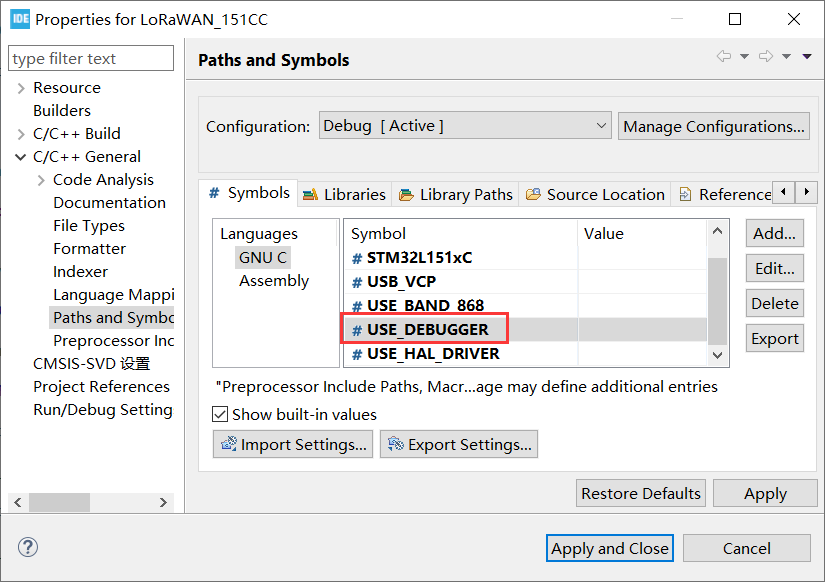
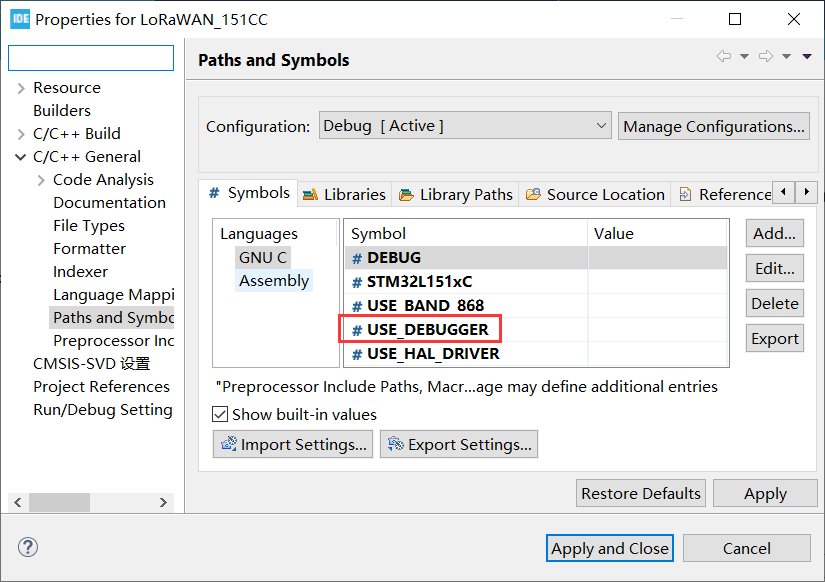
Update STM32 relevant documents

Changed region(s): [[0.3939, 0.3711, 0.8788, 0.6186], [0.2727, 0.4639, 0.3939, 0.5258], [0.0, 0.0928, 0.1515, 0.1237]]

diff --git a/en/source/stm32/turtle_board/download_firmware.md b/en/source/stm32/turtle_board/download_firmware.md
@@ -1,19 +1,56 @@
 # Download Firmware
 
-&nbsp;
-
 ## Via DFU Mode
+
+STM32L432KC had already included DFU Bootloader, it means just need a Micro USB cable, users can download .elf/.bin files into the board.
 
 - How to access DFU mode.
 
-  
+  - If the board is not connected to the computer —— press the "USER" button of the Lora node before inserting it into any USB port of the computer (press the “USER"  key all the time before inserting, and release it after connecting to the USB port).
+  - If the board had connected to the computer —— Keep the “USER” button pressed → Press the "RST" button → Release the "RST" button → Release the "USER" button.
 
 - Download firmware.
+
+  - If enter DFU mode successfully (with the driver is installed correctly), you can see the STM32 flash in `RadioShuttle STM32 Utility`. 
+
+    ![](img/download_firmware/05.png)
+  
+  - Drag the `.bin` file into the window.
+  
+  ![](img/download_firmware/04.png)
+  
+  ```Warning:: For Turtle Board, if you use &quot;STM32CubeProgrammer&quot; to download firmware, it may damage the bootloader of the Turtle Board, so we recommend using &quot;RadioShuttle STM32 Utility&quot;.
+  
+  ```
+  
+  ***The advantage of using the DFU mode is that you can easily find a Micro USB cable. But the disadvantage is that there is no way to simulate online.***
+  
+  Know more about `RadioShuttle STM32 Utility` please click [https://www.radioshuttle.de/en/turtle-en/radioshuttle-stm32-utility-en/](https://www.radioshuttle.de/en/turtle-en/radioshuttle-stm32-utility-en/) .
+  
+  Download `RadioShuttle STM32 Utility`  please click [https://www.radioshuttle.de/wp-content/uploads/2019/04/RadioShuttle-STM32-Tools-1.1.1.zip](https://www.radioshuttle.de/wp-content/uploads/2019/04/RadioShuttle-STM32-Tools-1.1.1.zip) .
+  
+  &nbsp;
 
 ## Via ST-LINK
 
 - How to connect to ST-LINK.
 
+  Connect the ST-LINK to the LoRa Node correctly,please refer to this picture.
+
+  ![32](img/download_firmware/03.png)
+
+  ```Tip:: ST-LINK can provide power to target device! If the LoRa Node is connected to the computer via the Micro USB interface, the ST-LINK 3.3V CAN NOT be connected to the VDD! Doing so may damage  the development board!
   
+  ```
+
+  Use ST-LINK matching the Turtle Board.
+
+  ![](img/download_firmware/01.png)
 
 - Download firmware.
+
+  After connecting ST-LINK correctly,click on this icon.
+  
+  ![](img/download_firmware/06.png)
+
+***The advantage of using the ST-LINK method is that it can be single-stepped debugging with the STM32CubeIDE , but the disadvantage is that the ST-LINK debugger tool is required***

diff --git a/en/source/stm32/turtle_board/radioshuttle_protocol_resource.md b/en/source/stm32/turtle_board/radioshuttle_protocol_resource.md
@@ -1,0 +1,52 @@
+# RadioShuttle Protocol Resource
+
+&nbsp;
+
+## The RadioShuttle Wireless Protocol
+
+- **Peer-to-peer LoRa wireless protocol software**
+
+  The standard **LoRaWAN** protocol is inefficient, does not support direct node to node communication, and is too expensive and complex for many applications. Radioshuttle can send information efficiently and safely between simple LoRa modules.
+
+- **Secure message transmission.**
+
+  232 bytes user data maximum, the receipt will be acknowledged, lost data is automatically repeated
+
+- **Air traffic control**
+
+  The nodes only send if no LoRa signal is active on that channel. The stations create an automatic network plan, defining which nodes and stations are allowed to communicate, and when. (Planned)
+
+- **Optimized protocol**
+
+  - Message delivery within 110 ms (SF7, 125 kHz, free channel provided)
+  - Messages only require 2 x 12 bytes (protocol overhead)
+  - Narrow bandwidths allow for a longer range
+  - Automatic transmitting power adjustment saves energy and reduces traffic on the neighboring stations
+
+- Support multiple MCU boards
+
+  - The [Turtle](https://www.radioshuttle.de/en/turtle-en/turtle-board-en/) board
+  - The [ECO Power](https://www.radioshuttle.de/en/esp32-eco-power-en/esp32-eco-power-board-en/) board
+  - The [LongRa](https://www.radioshuttle.de/en/longra-en/board-en/) board
+
+- Supported multiple systems
+
+  - Arduino, Arduino Zero or newer
+  - ARM Mbed OS, supported MCUs (e.g. STM32L0, STM32L4)
+  - Linux (Raspberry PI/Orange PI planned)
+
+  Know more about RadioShuttle Protocol please click:[The RadioShuttle Wireless Protocol](https://www.radioshuttle.de/en/radioshuttle-en/protocol/).
+
+  &nbsp;
+
+## RadioShuttle STM32 Utility
+
+“RadioShuttle STM32 Utility” is a special utility which easily allows uploading and downloading software to/from RadioShuttle STM32-compatible boards, via USB using the DFU protocol. The utility can be used either from a command line from Mac, Windows, and Linux, or in a GUI from Mac and Windows computers. Software can be uploaded to/downloaded from STM32 MCUs. It has been designed to be used with RadioShuttle compatible boards which obtained a valid license (code) during the manufacturing process.
+
+- **System requirements**
+
+  - **Windows:** Windows 7 or higher
+  - **Mac:** macOS 10.9 or higher
+  - **Linux:** Linux kernel 2.6.16 or higher,glibc 2.4 or higher
+
+  Know more about RadioShuttle STM32 Utility please click: [RadioShuttle STM32 Utility](https://www.radioshuttle.de/en/turtle-en/radioshuttle-stm32-utility-en/)

diff --git a/en/source/esp32/view_limited_technical_data.md b/en/source/esp32/view_limited_technical_data.md
@@ -1,18 +1,16 @@
 # View Limited Technical Data
 
-## Schematic Diagram
+## Get Chip ID
 
-```Tip:: Some schematic diagrams are restrictive technical data,it will become downloadable after purchase.Please refer to the following steps.
+Get chip ID of ESP32,please refer to the following steps.
 
-```
-
-1.Choose an example from menu `File -- Examples -- ESP32 -- ChipID -- GetChipID`.
+- Choose an example from menu `File -- Examples -- ESP32 -- ChipID -- GetChipID`.
 
 ![](img/view_limited_technical_data/01.png)
 
 &nbsp;
 
-2.Upload the code,open serial port,copy the Chip ID and open this link  [http://www.heltec.cn/search/](http://www.heltec.cn/search/).
+- Upload the code,open serial port,you can see the Chip ID.
 
 ![](img/view_limited_technical_data/02.png)
 
@@ -20,13 +18,19 @@ You can also use this simple example to get your Chip ID.  [get Chip ID](https:/
 
 &nbsp;
 
-3.Input the Chip ID,click `Confirm` .
+## Get Schematic Diagram
+
+Some schematic diagrams are restrictive technical data,it will become downloadable after purchase.Please refer to the following steps.
+
+- Copy the Chip ID and open this link  [http://www.heltec.cn/search/](http://www.heltec.cn/search/).
+
+- Input the Chip ID,click `Confirm` .
 
 ![](img/view_limited_technical_data/03.png)
 
 &nbsp;
 
-4.You can see some informations about this board,click`Relevant Resource` ，you can see the Pinout diagram,open the `limited` folder,you can see the Schematic diagram.
+- You can see some informations about this board,click`Relevant Resource` ，you can see the Pinout diagram,open the `limited` folder,you can see the Schematic diagram.
 
 ![](img/view_limited_technical_data/04.png)
 

diff --git a/en/source/stm32/lorawan/config_parameter.md b/en/source/stm32/lorawan/config_parameter.md
@@ -7,13 +7,13 @@
 No matter what LoRa management platform is used, DevEui, AppKey, etc. parameters are must needed. And ensure that it is consistent with the relevant settings on the server.
 
 - **The following parameters are essential for OTAA mode:**
-  - [DevEui](#deveui) -- Mote device IEEE EUI (big endian), 8 bytes;
-  - [AppEui](#appeui) -- Application IEEE EUI (big endian), 8 bytes;
-  - [AppKey](appkey) -- AES encryption/decryption cipher application key, 16 bytes;
+  - DevEui -- Mote device IEEE EUI (big endian), 8 bytes;
+  - AppEui -- Application IEEE EUI (big endian), 8 bytes;
+  - AppKey -- AES encryption/decryption cipher application key, 16 bytes;
 - **The following parameters are essential for ABP mode:**
-  - [NwkSKey](nwkskey) -- AES encryption/decryption cipher network session key, 16 bytes;
-  - [AppSKey](appskey) -- AES encryption/decryption cipher application session key, 16 bytes;
-  - [DevAddr](devaddr) -- Device address on the network (big endian), uint32_t;
+  - NwkSKey -- AES encryption/decryption cipher network session key, 16 bytes;
+  - AppSKey -- AES encryption/decryption cipher application session key, 16 bytes;
+  - DevAddr -- Device address on the network (big endian), uint32_t;
 
 &nbsp;
 
@@ -57,7 +57,7 @@ The first time you run, may have the following dialog box will, click Yes and th
 
 &nbsp;
 
-- Set the working bands in the macro definition.(Press `alt` and `enter`  keys to enter the interface)
+- Set the working bands in the macro definition.(Right-click the project to open `Properties`)
 
 ![](img/config_parameter/04.png)
 

diff --git a/en/source/stm32/turtle_board/establish_serial_connection.md b/en/source/stm32/turtle_board/establish_serial_connection.md
@@ -1,9 +1,41 @@
 # Establish Serial Connection
 
-&nbsp;
+The LoRa Node can print debugging information through USB CDC (USB Virtual Serial Poart) or UART, but the USB to UART chip is not integrated on the board. If the debugging information is to be output through the UART, an external USB to UART module is required.
 
 ## Use UART
 
+- Right-click the project to open `Properties`.
 
+![](img/establish_serial_connection/03.png)
+
+- Add `USE_DEBUGGER` in macro definitions. Compile and download firmware.
+
+![](img/establish_serial_connection/04.png)
+
+- Connect the board and USB-UART module correctly.
+
+```Tip:: The LoRa Node and USB-UART module are connect as below (if the LoRa Node is powered via USB or battery, the UART mode&#39;s 3.3 / 5V pin do not need connect, just need TXD, RXD, GND).
+
+```
+
+![](img/establish_serial_connection/02.png)
+
+```Tip:: When using UART, the TX and RX pins used in the program should be corresponding to the TX and RX pins on the board.In the routine we provide,we use TX-PA9,RX-PA10.Therefore, TX of UART module should be connected to TX(PA9） of board,RX of UART module should be connected to RX(PA10） of board.
+
+```
+
+- Open serial port.
+
+&nbsp;
 
 ## Use virtual serial port
+
+- Right-click the project to open `Properties`.
+
+![](img/establish_serial_connection/03.png)
+
+- Add `USB_VCP` and `USE_DEBUGGER`  in macro definitions. Compile and download firmware.
+
+![](img/establish_serial_connection/01.png)
+
+- Connect LoRa Node to computer via a Micro USB cable and open serial port.

diff --git a/en/source/stm32/lora_node_151/download_firmware.md b/en/source/stm32/lora_node_151/download_firmware.md
@@ -1,12 +1,12 @@
 # Download Firmware
 
-&nbsp;
-
 ## Via DFU Mode
+
+STM32L151CCU6 had already included DFU Bootloader, it means just need a Micro USB cable, users can download .elf/.bin files into the board.
 
 - How to access DFU mode.
 
-  - If the circuit board is not connected to the computer —— press the "USER" button of the Lora node before inserting it into any USB port of the computer (press the “USER"  key all the time before inserting, and release it after connecting to the USB port)
+  - If the board is not connected to the computer —— press the "USER" button of the Lora node before inserting it into any USB port of the computer (press the “USER"  key all the time before inserting, and release it after connecting to the USB port)
   - If the board had connected to the computer —— Keep the “USER” button pressed → Press the "RST" button → Release the "RST" button → Release the "USER" button.
 
 - Download firmware.
@@ -15,7 +15,7 @@
 
   ![](img/download_firmware/03.png)
 
-  Open a .hex/.bin file and click the "Download" icon.
+  Open a .elf/.bin file and click the "Download" icon.
 
   ![](img/download_firmware/04.png)
 

diff --git a/en/source/stm32/lorawan/connect_to_gateway.md b/en/source/stm32/lorawan/connect_to_gateway.md
@@ -2,7 +2,7 @@
 
 In this document, all operations and tests must be performed with a standard [LoRaWAN Gateway](https://heltec.org/proudct_center/lora/lora-gateway/), and at least have 8 channels!
 
-Before this operation, please read this document carefully: **[“STM32 + LoRa” Node Preparation & Config Parameters]() .**
+Before this operation, please read this document carefully: **[“STM32 + LoRa” Node Preparation & Config Parameters](https://heltec-automation-docs.readthedocs.io/en/latest/stm32/lorawan/config_parameter.html#) .**
 
 &nbsp;
 
@@ -16,7 +16,7 @@ Register a new device in TTN's "Applications" page. The `Device ID`, `Device EUI
 
 ![](img/connect_to_gateway/02.png)
 
-Correctly config LoRaWAN parameters for STM32 LoRa node, please refer to [this document](). If all goes well, we will be able to see Device is alive in "DEVICE OVERVIEW".
+Config LoRaWAN parameters for STM32 LoRa node correctly, please refer to [this document](https://heltec-automation-docs.readthedocs.io/en/latest/stm32/lorawan/config_parameter.html#). If all goes well, we will be able to see Device is alive in "DEVICE OVERVIEW".
 
 ![](img/connect_to_gateway/03.png)
 

diff --git a/en/source/stm32/lora_node_151/establish_serial_connection.md b/en/source/stm32/lora_node_151/establish_serial_connection.md
@@ -4,6 +4,10 @@ The LoRa Node can print debugging information through USB CDC (USB Virtual Seria
 
 ## Use UART
 
+- Right-click the project to open `Properties`.
+
+![](img/establish_serial_connection/07.png)
+
 - Add `USE_DEBUGGER` in macro definitions.
 
 ![](img/establish_serial_connection/04.png)
@@ -22,14 +26,22 @@ The LoRa Node can print debugging information through USB CDC (USB Virtual Seria
 
 ![](img/establish_serial_connection/06.png)
 
+- Open serial port.
+
 ![](img/establish_serial_connection/02.png)
 
 &nbsp;
 
 ## Use virtual serial port
 
-Connect LoRa Node to computer via a Micro USB cable. Add both `USB_VCP` and `USE_DEBUGGER`  in macro definitions.
+- Right-click the project to open `Properties`.
+
+![](img/establish_serial_connection/07.png)
+
+- Add `USB_VCP` and `USE_DEBUGGER`  in macro definitions. Compile and download firmware.
 
 ![](img/establish_serial_connection/05.png)
+
+- Connect LoRa Node to computer via a Micro USB cable and open serial port.
 
 ![](img/establish_serial_connection/03.png)

diff --git a/en/source/stm32/lorawan/get_lorawan_example_code.md b/en/source/stm32/lorawan/get_lorawan_example_code.md
@@ -1,2 +1,23 @@
 # Get LoRaWAN Example Code
 
+## Get Chip ID
+
+
+
+## Get LoRaWAN Example Code
+
+Some example code is restrictive technical data,it will become downloadable after purchase.Please refer to the following steps.
+
+- Copy the Chip ID and open this link  [http://www.heltec.cn/search/](http://www.heltec.cn/search/).
+
+- Input the Chip ID,click `Confirm` .
+
+  ![](img/get_lorawan_example_code/01.png)
+
+- You can see some informations about this board,click`Relevant Resource` ，you can see the example code.
+
+  ![](img/get_lorawan_example_code/02.png)
+
+  &nbsp;
+
+**Tip: Because some of the previous product data has not been synchronized to the server, if you cannot succeed in this method, please click this link [https://docs.heltec.cn/](https://docs.heltec.cn/) to view and download.**

diff --git a/en/source/stm32/index.rst b/en/source/stm32/index.rst
@@ -14,7 +14,7 @@ STM32 is a powerfull SoC with Ultra-low-power 32-bit MCU,The benefit of "STM32 +
     :maxdepth: 2
     
     Quick Start <quick_start>
-    LoRaWAN <lorawan/index>
+    LoRaWAN <lorawan/index.rst>
     LoRa Node 151 <lora_node_151/index.rst>
     Turtle Board <turtle_board/index.rst>
     Frequently Asked Questions <frequently_asked_questions>

diff --git a/en/source/stm32/turtle_board/index.rst b/en/source/stm32/turtle_board/index.rst
@@ -8,4 +8,5 @@ Turtle Board relevant documents.
     
     Download Firmware<download_firmware>
     Establish Serial Connection<establish_serial_connection>
+    RadioShuttle Protocol Resource<radioshuttle_protocol_resource>
     Hardware Update Logs <hardware_update_log>

diff --git a/en/source/index.rst b/en/source/index.rst
@@ -37,7 +37,7 @@ Content:
    Frequently Asked Questions <esp32/frequently_asked_questions>
 
 .. toctree::
-   :maxdepth: 2
+   :maxdepth: 3
    :glob:
    :caption: STM32 + LoRa
    
